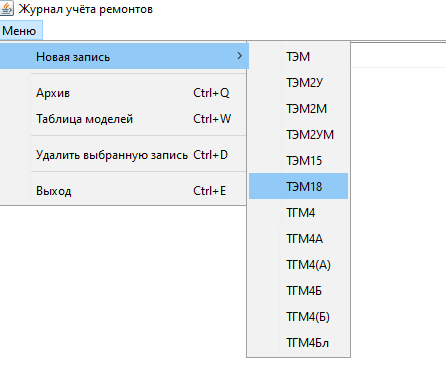
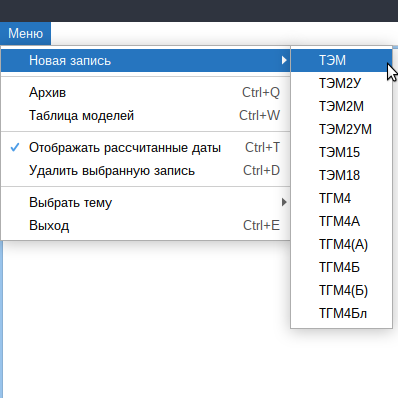
Readme update.

diff --git a/README.md b/README.md
@@ -1,6 +1,6 @@
-# Журнал учёта ремонтов для локомотивного депо
-Данная прикладная программа упрощает учёт произведённых и предстоящих ремонтов тепловозов для сотрудников локомотивного депо.  
-После указания предыдущего ремонта определённой разновидности, даты следующих ремонтов будут рассчитаны автоматически, с учётом установленных периодов ремонтов для каждой конкретной модели тепловоза.
+# Журнал учёта ремонтов для локомотивного депо
+Данная прикладная программа упрощает учёт и планирование произведённых и предстоящих ремонтов тепловозов для сотрудников локомотивного депо.
+После указания последнего ремонта определённой разновидности, даты запланированных ремонтов будут рассчитаны автоматически, с учётом установленных периодов ремонтов для каждой конкретной модели тепловоза.
 
 ---
 
@@ -9,13 +9,14 @@
 * [Установка на GNU/Linux](#установка-на-gnulinux)
 * [Работа с журналом](#работа-с-журналом-учёта)
 * [Версия](#версия)
+* [Использованные ресурсы](#использованные-ресурсы)
 
 ---
 
 ### Установка на Windows
-1. Загрузите [zip архив для *Windows*](https://drive.google.com/file/d/12XafrI6UhdHyBA9kn99YvJmv0vP-YCwX/view?usp=sharing)
+1. Загрузите [архив для *Windows*](https://drive.google.com/file/d/1HMSCg39xknf3PKG7aUw59k3DJZAEiQSp/view?usp=sharing).
 2. Распакуйте содержимое архива в любую папку.
-3. Запустите приложение двойным щелчком по файлу с названием *"Журнал учёта"*.
+3. Запустите приложение.
 
 
 ![LaunchApp](ReadmeScreenshots/Launch.png)
@@ -33,10 +34,10 @@
 ---
 
 ### Установка на GNU\/Linux
-1. Загрузите [zip архив для *Linux*](https://drive.google.com/file/d/1j4zpjsOQ2MFmXRjhzKdaYHjh_5l_9-qp/view?usp=sharing)
+1. Загрузите [архив для *Linux*](https://drive.google.com/file/d/1rOKjXfkoe6Gt99TNTDkEWTjT-gIW_sX7/view?usp=sharing).
 2. Распакуйте содержимое архива в любую папку.
-3. В папке приложения пройдите в директорию **bin** и запустите из терминала сценарий командной оболочки:
-`./Depo_Logbook`
+3. В папке приложения перейдите в директорию **bin** и запустите из терминала сценарий командной оболочки:
+`./Depo_Logbook_1.0`
 
 
 > Примечание: для работы приложения требуется среда выполнения Java программ (*Java Runtime Environment*).
@@ -58,27 +59,57 @@
 
 ![NewRecord](ReadmeScreenshots/NewRecord.png)
 
+![NewRecordNumber](ReadmeScreenshots/NewRecordNumber.png)
+
+
 
 3. Новая запись займёт две строки журнала: в первой строке можно записать дату последнего ремонта определённого вида; во второй строке вы увидите автоматически рассчитанную дату следующего ремонта этого вида:
 
 
 ![FirstRecord](ReadmeScreenshots/FirstRecord.png)
-![CalculatedDates](ReadmeScreenshots/DateCalculations.png)
 
 
-4. Если была указана дата для ремонта, который включает в себя меньшие по объёму ремонты, даты для меньших ремонтов также будут перерасчитаны от даты более крупного ремонта.
-5. Периоды ремонтов для автоматического расчёта дат указываются в *"Таблице моделей"*. Данные о моделях можно добавлять, изменять и удалять:
+
+4. Если была указана дата для ремонта, который включает в себя меньшие по объёму ремонты, даты для меньших ремонтов будут рассчитаны от даты более крупного ремонта.
+5. Периоды ремонтов для автоматического расчёта дат указываются в *"Таблице моделей"*.
+6. Из указанных вами дат программа выберет и отобразит последний произведённый ремонт.
+7. На основе автоматически рассчитанных дат программа определит и отобразит следующий требуемый ремонт: сначала будет выполнен поиск просроченных ремонтов и если такой ремонт будет найден, программа выделит его особым цветом. При обнаружении нескольких просроченных ремонтов программа отдаст предпочтение ремонту наибольшего объёма.
+Если просроченных ремонтов нет, будет выбран ближайший запланированный ремонт. Если несколько ремонтов приходятся на один и тот же месяц, программа отдаст предпочтение ремонту наибольшего объёма независимо от дат ремонтов в границах одного месяца.
 
 
-![ModelsTable](ReadmeScreenshots/ModelsTable.png)
+![BigPicture](ReadmeScreenshots/BigPicture.png)
 
 
-6. *"Архив"* хранит записи, удалённые из журнала ремонтов. Очистка архива удалит данные безвозвратно.
+8. Для повышения читаемости таблицы рассчитанные даты можно скрыть или показать:
 
 
-![Archive](ReadmeScreenshots/Archive.png)
+![ShowNextRepairs](ReadmeScreenshots/ShowNextRepairs.png)
+
+
+9. Приложение поддерживает тёмную тему:
+
+
+![DarkTheme](ReadmeScreenshots/DarkTheme.png)
+
+![DarkThemeModels](ReadmeScreenshots/DarkThemeModels.png)
+
+
 
 ---
 
 ### Версия
-На данный момент проект находится в демо версии и имеет минимальную функциональность.
+1.0 — первая рабочая версия с основным необходимым функционалом.
+
+---
+
+### Использованные ресурсы
+
+<ul>
+<li>Основа для светлой и тёмной тем:
+
+<a href="https://github.com/JFormDesigner/FlatLaf" title="FlatLaf">FlatLaf - Swing Look and Feel created by FormDev</a>
+
+<li>Иконка приложения во время работы программы:
+
+<a href="https://www.flaticon.com/free-icons/train" title="train icons">Train icons created by Vectors Market — Flaticon</a>
+</ul>
